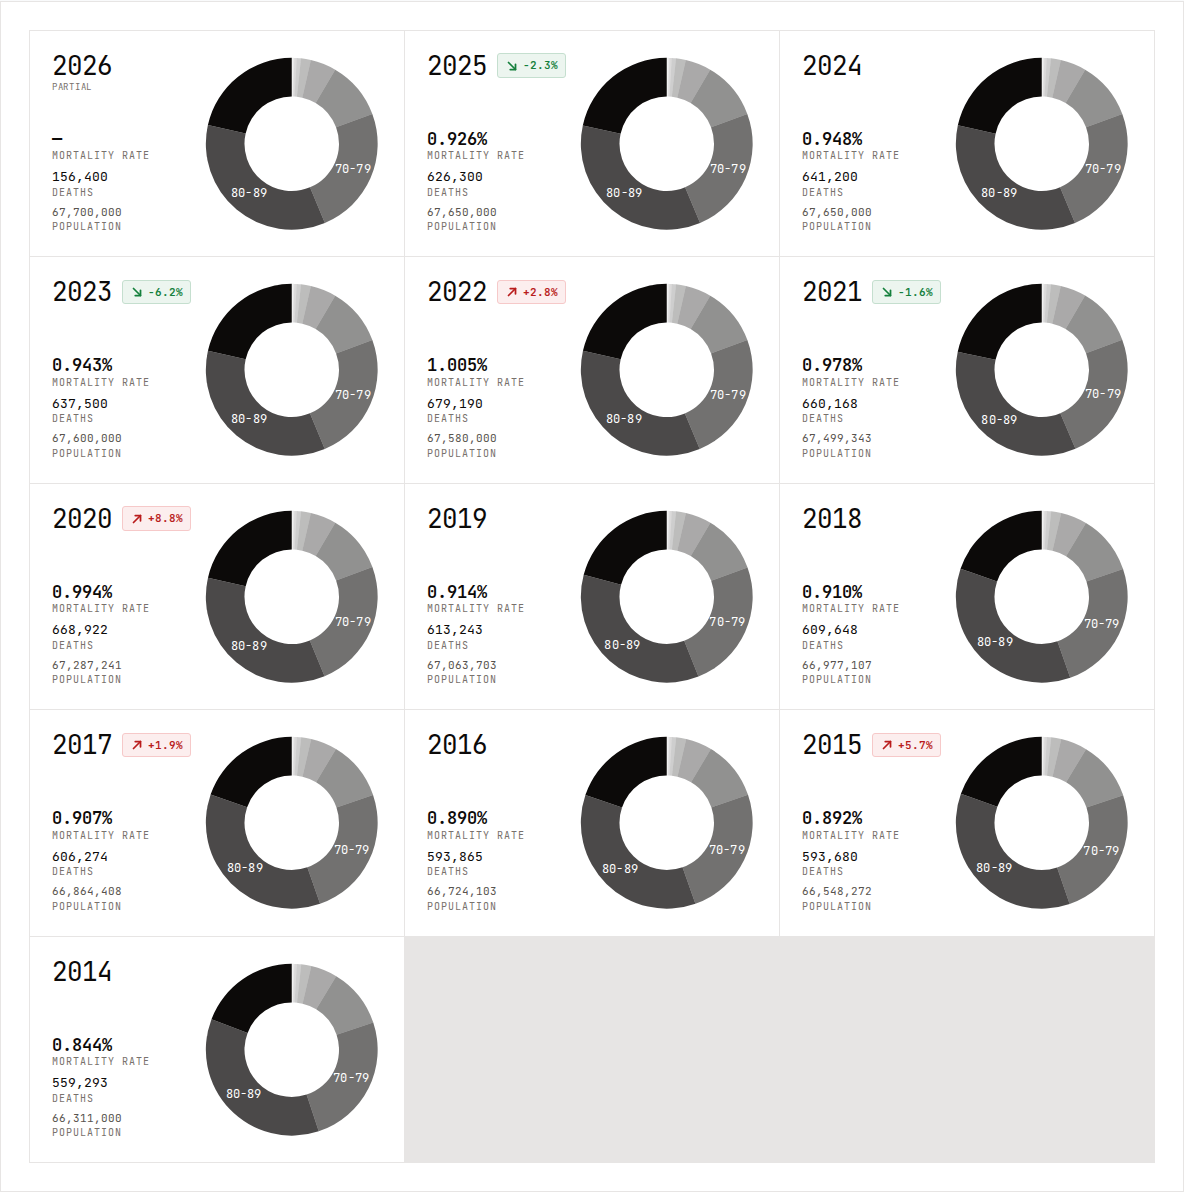
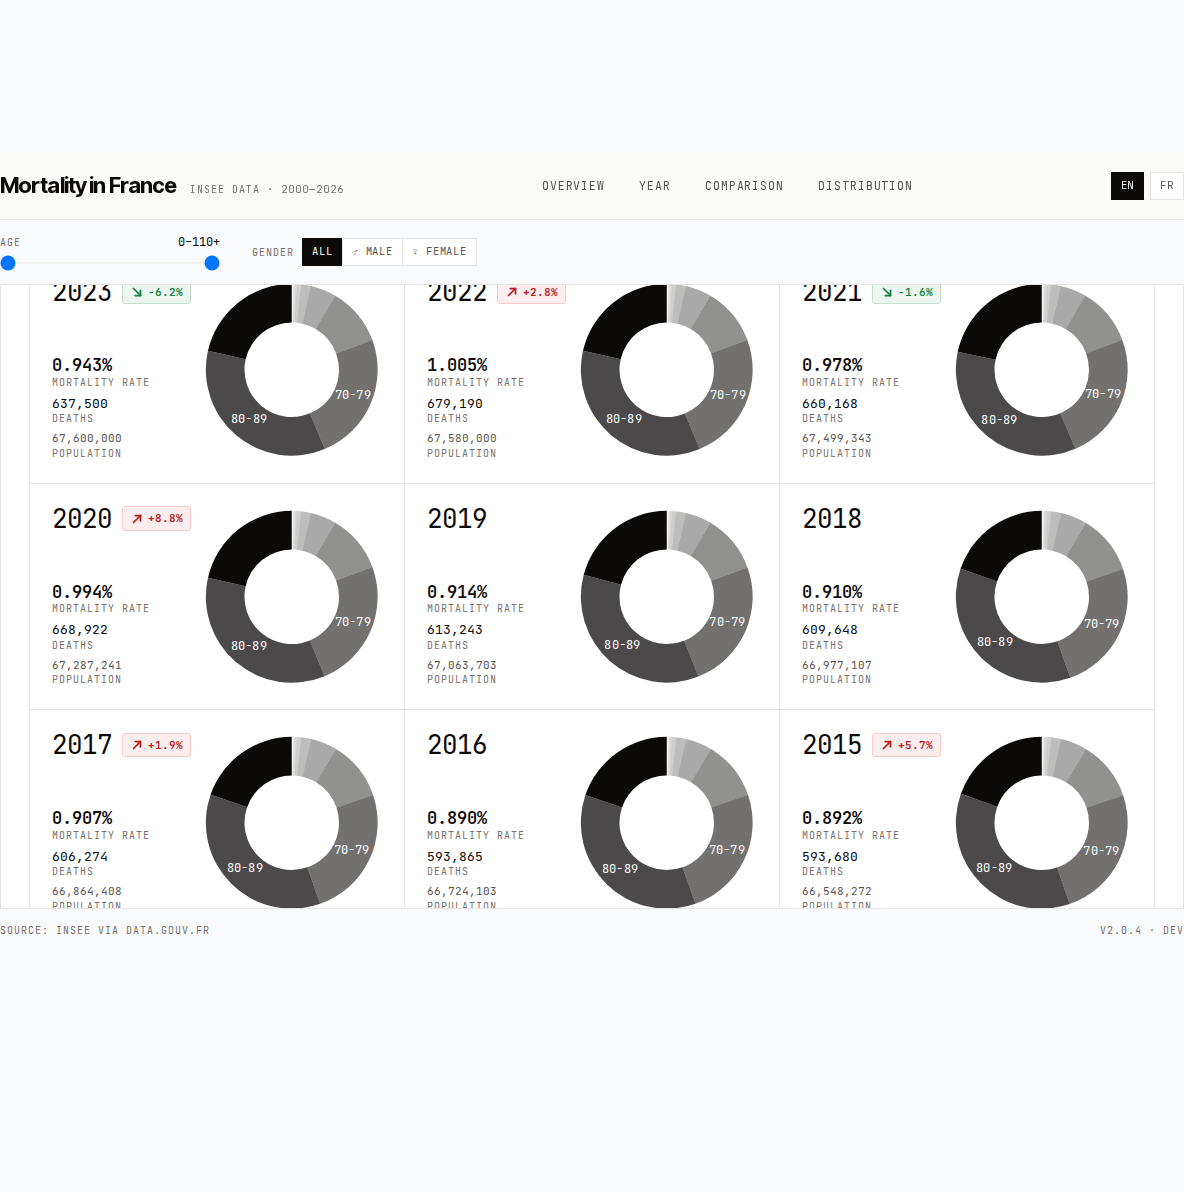
fix(layout): sticky footer + equal margins + fillable charts (#311)
* fix(layout): sticky footer + equal margins + fillable charts

- App wrapper turns into a 100vh flex column with main scrolling
  internally so header/filters/footer stay visible on tall pages.
- main has fixed 36px top/bottom padding so /comparison and
  /distribution end up with the same vertical breathing room.
- Distribution and Monthly (compare mode) charts opt into a
  `fillHeight` prop that measures the parent height via ResizeObserver
  and grows to fill the chart card; the SVG label "MORTALITY RATE"
  is now right-anchored so it stays inside the card, and the
  "DEATHS"/"MORTALITY RATE" titles sit a few px higher to avoid
  collision with the topmost tick label.

* fix(layout): reset scroll position on route change

* fix(layout): apply prettier formatting on _app.tsx

* fix(charts): use isomorphic layout effect to silence SSR warning

`useLayoutEffect` is called in chart components that get pre-rendered
on the server (the `/distribution` and `/comparison` pages); React logs
"useLayoutEffect does nothing on the server" on every SSR. Wrap it in
a tiny isomorphic helper that falls back to `useEffect` server-side.
The DOM measurement still happens synchronously on the client mount.

---------

Pull request: fix(layout): sticky footer + equal margins + fillable charts
## Summary

Three correlated fixes to the page layout, surfaced by viewing /comparison and /distribution at viewport height:

- **Sticky footer**. The `_app.tsx` wrapper now uses `flex h-full flex-col` (with `html, body, #__next` capped at 100vh), so the footer stays at the bottom of the viewport on short pages and main scrolls internally on tall ones. Header / filters / footer remain visible while scrolling /overview or /.
- **Equal vertical margins on /comparison and /distribution**. main has fixed 36px top/bottom padding, so both pages get the same breathing room above the first card and below the last (previously /distribution had ~80px gap top and bottom, /comparison ~36px — uneven because the prior `my-auto` distributed leftover space rather than using a fixed value).
- **Charts fill the available card height**. Distribution and Monthly (compare mode only) gained a `fillHeight` opt-in prop that measures the parent via `ResizeObserver` and renders the SVG to that height, so the chart card no longer sits half-empty when the available area is taller than the default 420/460px. The Distribution `MORTALITY RATE` label is now right-anchored so it stays inside the card, and both top labels (`DEATHS` / `MORTALITY RATE`) sit at `padT - 14` instead of `padT - 6` to avoid collision with the topmost y-tick label.

Verified visually in Chrome on /, /overview, /comparison, /distribution. Vitest snapshots updated.

## Test plan

- [x] `yarn test` (snapshots regenerated)
[…]

diff --git a/src/components/charts/Distribution.tsx b/src/components/charts/Distribution.tsx
@@ -1,4 +1,6 @@
-import { useEffect, useRef, useState } from "react"
+import { useRef, useState } from "react"
+
+import useIsomorphicLayoutEffect from "@/utils/use-isomorphic-layout-effect"
 
 import {
   DISTRIBUTION_BUCKET_COUNT,
@@ -24,6 +26,7 @@ export type DistributionProps = {
   setHovered: (year: number | null) => void
   labels: DistributionLabels
   height?: number
+  fillHeight?: boolean
   formatCompact?: (n: number) => string
 }
 
@@ -51,21 +54,33 @@ const Distribution = ({
   hovered,
   setHovered,
   labels,
-  height = 460,
+  height: heightProp = 460,
+  fillHeight = false,
   formatCompact = defaultFormatCompact,
 }: DistributionProps) => {
   const containerRef = useRef<HTMLDivElement>(null)
   const [width, setWidth] = useState(900)
+  const [measuredHeight, setMeasuredHeight] = useState(0)
 
-  useEffect(() => {
+  useIsomorphicLayoutEffect(() => {
     const node = containerRef.current
     if (!node) return
+    const rect = node.getBoundingClientRect()
+    if (rect.width > 0) setWidth(rect.width)
+    if (rect.height > 0) setMeasuredHeight(rect.height)
     const ro = new ResizeObserver(([entry]) => {
-      if (entry) setWidth(entry.contentRect.width)
+      if (!entry) return
+      setWidth(entry.contentRect.width)
+      setMeasuredHeight(entry.contentRect.height)
     })
     ro.observe(node)
     return () => ro.disconnect()
   }, [])
+
+  const height =
+    fillHeight && measuredHeight > 0
+      ? Math.max(measuredHeight, 320)
+      : heightProp
 
   const filtered = applyGenderFilter(years, gender)
   const {
@@ -91,7 +106,12 @@ const Distribution = ({
       : labels.deathsCount
 
   return (
-    <div ref={containerRef} className="relative w-full">
+    <div
+      ref={containerRef}
+      className={
+        fillHeight ? "relative w-full min-h-0 flex-1" : "relative w-full"
+      }
+    >
       <svg
         role="img"
         aria-label={ariaLabel}
@@ -263,7 +283,7 @@ const Distribution = ({
 
         <text
           x={padL - 44}
-          y={padT - 6}
+          y={padT - 14}
           fontSize="9.5"
           className="font-mono uppercase"
           fill="var(--color-text-faint)"
@@ -272,8 +292,9 @@ const Distribution = ({
           {labels.deathsCount}
         </text>
         <text
-          x={padL + innerW + 34}
-          y={padT - 6}
+          x={width - 4}
+          y={padT - 14}
+          textAnchor="end"
           fontSize="9.5"
           className="font-mono uppercase"
           fill="var(--color-danger)"

diff --git a/src/components/charts/Monthly.tsx b/src/components/charts/Monthly.tsx
@@ -1,4 +1,6 @@
-import { useEffect, useRef, useState } from "react"
+import { useRef, useState } from "react"
+
+import useIsomorphicLayoutEffect from "@/utils/use-isomorphic-layout-effect"
 
 import {
   MONTHLY_PADDING,
@@ -26,6 +28,7 @@ export type MonthlyProps = {
   setHovered: (h: MonthlyHover | null) => void
   labels: MonthlyLabels
   height?: number
+  fillHeight?: boolean
   formatNumber?: (n: number) => string
   formatCompact?: (n: number) => string
 }
@@ -55,22 +58,34 @@ const Monthly = ({
   hovered,
   setHovered,
   labels,
-  height = 420,
+  height: heightProp = 420,
+  fillHeight = false,
   formatNumber = defaultFormatNumber,
   formatCompact = defaultFormatCompact,
 }: MonthlyProps) => {
   const containerRef = useRef<HTMLDivElement>(null)
   const [width, setWidth] = useState(900)
+  const [measuredHeight, setMeasuredHeight] = useState(0)
 
-  useEffect(() => {
+  useIsomorphicLayoutEffect(() => {
     const node = containerRef.current
     if (!node) return
+    const rect = node.getBoundingClientRect()
+    if (rect.width > 0) setWidth(rect.width)
+    if (rect.height > 0) setMeasuredHeight(rect.height)
     const ro = new ResizeObserver(([entry]) => {
-      if (entry) setWidth(entry.contentRect.width)
+      if (!entry) return
+      setWidth(entry.contentRect.width)
+      setMeasuredHeight(entry.contentRect.height)
     })
     ro.observe(node)
     return () => ro.disconnect()
   }, [])
+
+  const height =
+    fillHeight && measuredHeight > 0
+      ? Math.max(measuredHeight, 280)
+      : heightProp
 
   const { left: padL, top: padT } = MONTHLY_PADDING
   const { innerW, innerH, maxV, xs, yTicks, series } = buildMonthlyGeometry(
@@ -126,7 +141,12 @@ const Monthly = ({
       : labels.deathsCount
 
   return (
-    <div ref={containerRef} className="relative w-full">
+    <div
+      ref={containerRef}
+      className={
+        fillHeight ? "relative w-full min-h-0 flex-1" : "relative w-full"
+      }
+    >
       <svg
         role="img"
         aria-label={ariaLabel}

diff --git a/src/pages/_app.tsx b/src/pages/_app.tsx
@@ -1,5 +1,6 @@
 import ErrorPage from "next/error"
 import Head from "@/components/Head"
+import { useRef, useEffect } from "react"
 import { useRouter } from "next/router"
 import Header from "@/components/Header"
 import Footer from "@/components/Footer"
@@ -23,6 +24,15 @@ function MyApp({ Component, pageProps }: AppProps) {
   const router = useRouter()
   const { locale = "", defaultLocale = "" } = router
   const messages = { en, fr } as Record<string, Record<string, string>>
+  const mainRef = useRef<HTMLElement>(null)
+
+  useEffect(() => {
+    const reset = () => {
+      if (mainRef.current) mainRef.current.scrollTop = 0
+    }
+    router.events.on("routeChangeComplete", reset)
+    return () => router.events.off("routeChangeComplete", reset)
+  }, [router.events])
 
   if (pageProps?.statusCode >= 400) {
     return <ErrorPage statusCode={pageProps.statusCode} />
@@ -35,11 +45,18 @@ function MyApp({ Component, pageProps }: AppProps) {
         defaultLocale={defaultLocale}
         messages={messages[locale] || messages[defaultLocale]}
       >
-        <Head />
-        <Header />
-        <FiltersBar />
-        <Component {...pageProps} />
-        <Footer />
+        <div className="flex h-full flex-col">
+          <Head />
+          <Header />
+          <FiltersBar />
+          <main
+            ref={mainRef}
+            className="flex min-h-0 flex-1 flex-col overflow-y-auto py-9"
+          >
+            <Component {...pageProps} />
+          </main>
+          <Footer />
+        </div>
       </IntlProvider>
       {process.env.NEXT_PUBLIC_VERCEL_ENV ? <Analytics /> : null}
     </>

diff --git a/src/components/views/Comparison.tsx b/src/components/views/Comparison.tsx
@@ -30,6 +30,7 @@ export type ComparisonProps = {
   labels: ComparisonLabels
   locale: string
   compact?: boolean
+  fillHeight?: boolean
   maxSelected?: number
 }
 
@@ -50,6 +51,7 @@ const Comparison = ({
   labels,
   locale,
   compact = false,
+  fillHeight = false,
   maxSelected = 7,
 }: ComparisonProps) => {
   const sorted = useMemo(
@@ -79,9 +81,17 @@ const Comparison = ({
   return (
     <div
       data-testid="view-comparison"
-      style={{ display: "flex", flexDirection: "column", gap: sectionGap }}
+      style={{
+        display: "flex",
+        flexDirection: "column",
+        gap: sectionGap,
+        ...(fillHeight ? { flex: 1, minHeight: 0 } : null),
+      }}
     >
-      <Card data-testid="comparison-compare">
+      <Card
+        data-testid="comparison-compare"
+        className={fillHeight ? "flex min-h-0 flex-1 flex-col" : undefined}
+      >
         <div
           style={{
             display: "flex",
@@ -112,6 +122,7 @@ const Comparison = ({
           labels={monthlyLabels}
           formatNumber={(n) => fmtNumber(n, locale)}
           formatCompact={(n) => fmtCompact(n, locale)}
+          fillHeight={fillHeight}
         />
       </Card>
 

diff --git a/src/components/views/Distribution.tsx b/src/components/views/Distribution.tsx
@@ -21,6 +21,7 @@ export type DistributionProps = {
   labels: DistributionViewLabels
   locale: string
   compact?: boolean
+  fillHeight?: boolean
 }
 
 // Bar value labels look cleaner as integer K (e.g. 170K, not 169.6K).
@@ -39,15 +40,24 @@ const Distribution = ({
   labels,
   locale,
   compact = false,
+  fillHeight = false,
 }: DistributionProps) => {
   const sectionGap = compact ? 16 : 28
 
   return (
     <div
       data-testid="view-distribution"
-      style={{ display: "flex", flexDirection: "column", gap: sectionGap }}
+      style={{
+        display: "flex",
+        flexDirection: "column",
+        gap: sectionGap,
+        ...(fillHeight ? { flex: 1, minHeight: 0 } : null),
+      }}
     >
-      <Card data-testid="distribution-card">
+      <Card
+        data-testid="distribution-card"
+        className={fillHeight ? "flex min-h-0 flex-1 flex-col" : undefined}
+      >
         <div
           style={{
             display: "flex",
@@ -77,6 +87,7 @@ const Distribution = ({
             ageBuckets: labels.ageBuckets,
           }}
           formatCompact={(n) => fmtCompact(n, locale)}
+          fillHeight={fillHeight}
         />
       </Card>
     </div>

diff --git a/src/utils/use-isomorphic-layout-effect.ts b/src/utils/use-isomorphic-layout-effect.ts
@@ -1,0 +1,10 @@
+import { useEffect, useLayoutEffect } from "react"
+
+// `useLayoutEffect` warns during SSR ("does nothing on the server"); fall back
+// to `useEffect` server-side so the chart components can read DOM dimensions
+// synchronously on the client without polluting the build output with React
+// warnings.
+const useIsomorphicLayoutEffect =
+  typeof window !== "undefined" ? useLayoutEffect : useEffect
+
+export default useIsomorphicLayoutEffect

diff --git a/src/styles/tailwind.css b/src/styles/tailwind.css
@@ -27,6 +27,12 @@
 }
 
 @layer base {
+  html,
+  body,
+  #__next {
+    height: 100%;
+  }
+
   body {
     @apply text-base
       font-body

diff --git a/src/pages/comparison.tsx b/src/pages/comparison.tsx
@@ -133,7 +133,7 @@ const Page = () => {
   }))
 
   return (
-    <div className="container mx-auto px-6">
+    <div className="container mx-auto flex min-h-0 flex-1 flex-col px-6">
       <Comparison
         years={sortedYears}
         selected={selected}
@@ -142,6 +142,7 @@ const Page = () => {
         labels={labels}
         locale={router.locale || "en"}
         maxSelected={MAX_SELECTED}
+        fillHeight
       />
     </div>
   )

diff --git a/src/pages/distribution.tsx b/src/pages/distribution.tsx
@@ -59,7 +59,7 @@ const Page = () => {
   }
 
   return (
-    <div className="container mx-auto px-6">
+    <div className="container mx-auto flex min-h-0 flex-1 flex-col px-6">
       <Distribution
         years={years}
         gender={toViewGender(filters?.gender)}
@@ -67,6 +67,7 @@ const Page = () => {
         setHovered={setHovered}
         labels={labels}
         locale={router.locale || "en"}
+        fillHeight
       />
     </div>
   )